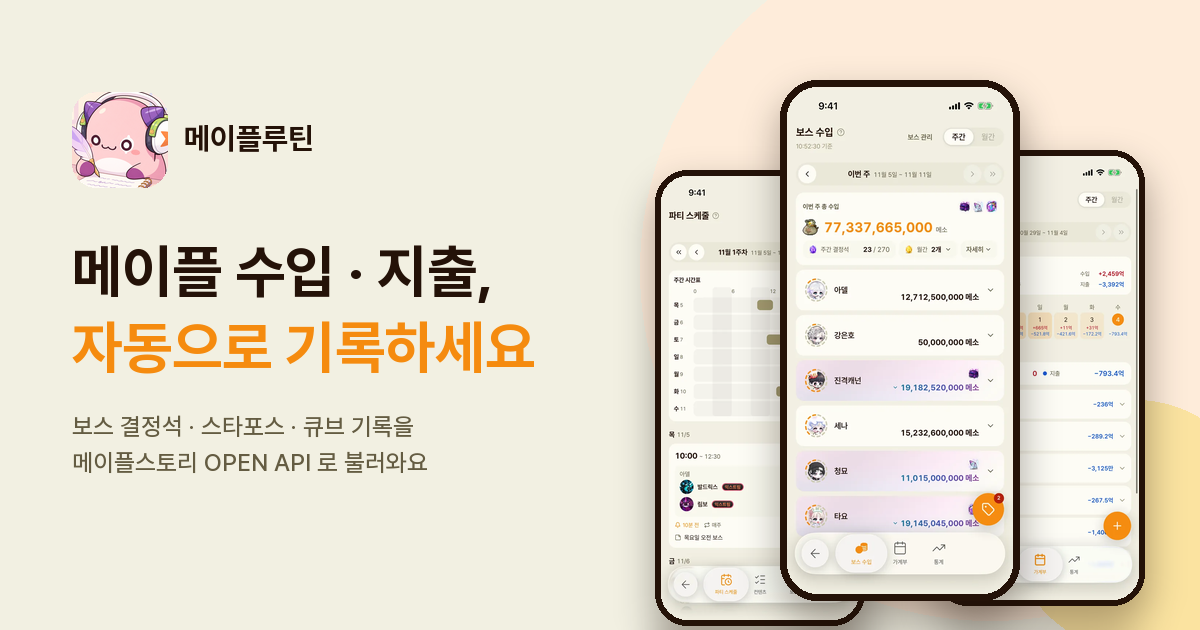
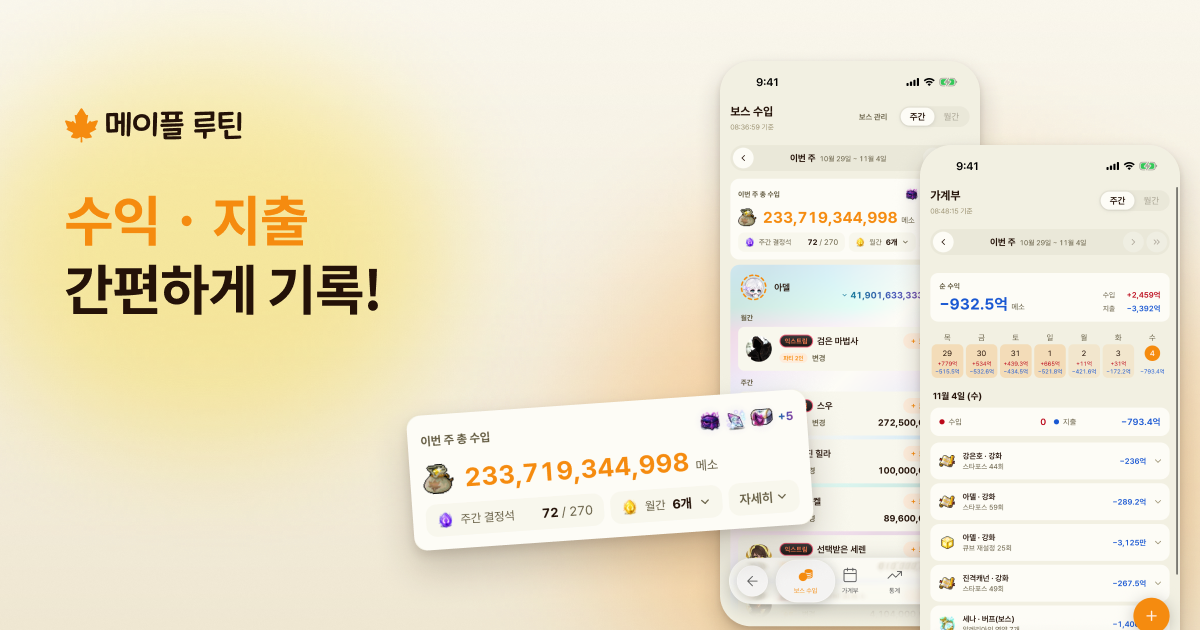
feat(site): 첫 화면과 자동 기록 구역을 화면 3장 콜라주로 바꾸고 폰 틀을 없앤다
- 첫 화면 · 결정석 수입 · 강화 · 파티 스케줄: 화면 3장에 키운 카드를 띄운 콜라주. 구역마다 화면 높낮이와 카드 위치를 조금씩 다르게 했다
- 모든 폰 화면에서 검정 폰 틀을 걷고 콜라주의 화면과 같은 모서리 · 그림자를 쓴다
- 모바일 첫 화면은 글 · 그림 · 스토어 배지 순서로 쌓는다
- 공유 미리보기 og.png 를 돈 묶음(보스 수입 · 가계부)만 담은 그림으로 바꾼다
- 콜라주에 들어가 쓰지 않게 된 화면 6장을 지운다

diff --git a/site/index.html b/site/index.html
@@ -101,20 +101,18 @@
       <span class="pill">메이플스토리 OPEN API 연동</span>
       <h1>메이플 수입 · 지출,<br><span class="accent">자동으로 기록하세요</span></h1>
       <p class="lead">메이플스토리 OPEN API 로 보스 처치와 강화 기록을 불러와 결정석 수입과 강화 지출을 자동으로 기록해요. 파티 인원을 정해 두면 매주 분배 금액도 계산해요.</p>
-      <div class="badges">
-        <a class="badge badge-apple" href="https://apps.apple.com/kr/app/id6797579391">
-          <img class="badge-apple-black" src="/images/home/badges/app-store-ko-black.svg" alt="App Store에서 다운로드" width="182" height="56">
-          <img class="badge-apple-white" src="/images/home/badges/app-store-ko-white.svg" alt="App Store에서 다운로드" width="182" height="56">
-        </a>
-        <a class="badge badge-google" href="https://play.google.com/store/apps/details?id=com.mapleroutine.app">
-          <img src="/images/home/badges/google-play-ko.svg" alt="Google Play에서 다운로드" width="189" height="56">
-        </a>
-      </div>
     </div>
-    <div class="hero-phones">
-      <div class="phone hero-side lift-hero-1"><img src="/images/home/screens/today.webp" alt="메이플 일일 · 주간 초기화까지 남은 시간과 다음 파티 일정을 보여 주는 메이플루틴 today 첫 화면" width="620" height="1348"></div>
-      <div class="phone hero-main"><img src="/images/home/screens/profit.webp" alt="메이플스토리 주간 보스 결정석 수익을 캐릭터별로 합산한 메이플루틴 보스 수입 화면" width="620" height="1348" fetchpriority="high"></div>
-      <div class="phone hero-side lift-hero-2"><img src="/images/home/screens/cash-week.webp" alt="스타포스 강화 · 큐브 재설정 지출이 자동으로 기록된 메이플루틴 메이플 가계부 주간 화면" width="620" height="1348"></div>
+    <div class="hero-media">
+      <img class="hero-collage" src="/images/home/collages/hero.webp" alt="이번 주 보스 결정석 총수입과 수입 내역 그래프를 크게 띄운 메이플루틴 메이플 가계부 · 보스 수입 · 통계 화면" width="1200" height="904" fetchpriority="high">
+    </div>
+    <div class="badges hero-badges">
+      <a class="badge badge-apple" href="https://apps.apple.com/kr/app/id6797579391">
+        <img class="badge-apple-black" src="/images/home/badges/app-store-ko-black.svg" alt="App Store에서 다운로드" width="182" height="56">
+        <img class="badge-apple-white" src="/images/home/badges/app-store-ko-white.svg" alt="App Store에서 다운로드" width="182" height="56">
+      </a>
+      <a class="badge badge-google" href="https://play.google.com/store/apps/details?id=com.mapleroutine.app">
+        <img src="/images/home/badges/google-play-ko.svg" alt="Google Play에서 다운로드" width="189" height="56">
+      </a>
     </div>
   </div>
 </section>
@@ -177,21 +175,14 @@
 </section>
 
 <section id="auto" class="band band-dark">
-  <div class="container stack">
-    <div class="split-head">
-      <div class="section-head">
-        <span class="eyebrow eyebrow-gold">자동 기록 · 결정석 수입</span>
-        <h2>보스 처치만으로<br>쌓이는 결정석 수입</h2>
-      </div>
-      <p class="section-body">인게임 스케줄러에서 처치한 보스를 불러와 결정석 금액을 자동으로 기록해요. 캐릭터별 · 주간 · 월간 수입을 따로 적지 않아도 한눈에 볼 수 있어요.</p>
+  <div class="container feature-row">
+    <div class="feature-copy">
+      <span class="eyebrow eyebrow-gold">자동 기록 · 결정석 수입</span>
+      <h2>보스 처치만으로<br>쌓이는 결정석 수입</h2>
+      <p>인게임 스케줄러에서 처치한 보스를 불러와 결정석 금액을 자동으로 기록해요. 캐릭터별 · 주간 · 월간 수입을 따로 적지 않아도 한눈에 볼 수 있어요.</p>
     </div>
-    <div class="carousel">
-      <div class="rail" id="rail-auto">
-        <div class="phone phone-black" style="--w-d: 250px"><img src="/images/home/screens/boss.webp" alt="메이플스토리 주간 보스와 월간 보스 처치 현황을 캐릭터별로 보여 주는 메이플루틴 보스 스케줄러 화면" width="620" height="1348" loading="lazy"></div>
-        <div class="phone phone-black lift-h" style="--w-d: 250px"><img src="/images/home/screens/profit.webp" alt="메이플스토리 주간 보스 결정석 수익을 캐릭터별로 합산한 메이플루틴 보스 수입 화면" width="620" height="1348" loading="lazy"></div>
-        <div class="phone phone-black" style="--w-d: 250px"><img src="/images/home/screens/profit-detail.webp" alt="메이플 보스 결정석 판매 금액과 보스 드롭 아이템 수익을 나눠 보여 주는 결정석 수익 상세 화면" width="620" height="1348" loading="lazy"></div>
-        <div class="phone phone-black lift-h" style="--w-d: 250px"><img src="/images/home/screens/crystal-day.webp" alt="날짜별로 쌓인 메이플 보스 결정석 수입을 보여 주는 메이플루틴 가계부 월간 달력 화면" width="620" height="1348" loading="lazy"></div>
-      </div>
+    <div class="feature-media feature-media-collage">
+      <img class="collage" src="/images/home/collages/profit.webp" alt="메이플스토리 보스 스케줄러 · 보스 수입 · 날짜별 결정석 수입 화면과 보스별 결정석 금액을 크게 띄운 메이플루틴 결정석 수입 자동 기록 화면" width="1200" height="968" loading="lazy">
     </div>
   </div>
 </section>
@@ -218,14 +209,9 @@
 
 <section class="band band-surface">
   <div class="container feature-row feature-row-reverse">
-    <div class="feature-media">
+    <div class="feature-media feature-media-collage">
       <svg class="blob" aria-hidden="true" viewBox="0 0 600 560"><path d="M280 40c150-20 290 80 300 220 10 150-110 260-260 270-160 10-300-80-310-220C0 170 120 60 280 40z" fill="#E3EAFB"/></svg>
-      <div class="carousel">
-        <div class="rail" id="rail-enhance">
-          <div class="phone" style="--w-d: 250px"><img src="/images/home/screens/cash-week.webp" alt="스타포스 강화 · 큐브 재설정 지출이 자동으로 기록된 메이플루틴 메이플 가계부 주간 화면" width="620" height="1348" loading="lazy"></div>
-          <div class="phone lift-1" style="--w-d: 250px"><img src="/images/home/screens/enhance.webp" alt="메이플스토리 스타포스 강화 횟수와 강화 비용이 지출로 기록된 메이플루틴 강화 기록 화면" width="620" height="1348" loading="lazy"></div>
-        </div>
-      </div>
+      <img class="collage" src="/images/home/collages/enhance.webp" alt="스타포스 강화 · 큐브 재설정 비용이 자동으로 기록된 메이플루틴 메이플 가계부 주간 · 강화 기록 · 하루 기록 화면과 지출 추가 화면" width="1200" height="895" loading="lazy">
     </div>
     <div class="feature-copy">
       <span class="eyebrow eyebrow-blue">자동 기록 · 강화 지출</span>
@@ -242,15 +228,9 @@
       <h2>고정 파티 일정,<br>주간 시간표로 한눈에</h2>
       <p>매주 반복되는 파티와 한 번뿐인 파티를 캐릭터 · 보스별로 등록해요. 요일별 시간표와 보드로 한 주를 보고, 시작 전에는 알림을 받아요. 다음 파티는 today 첫 화면에도 떠요.</p>
     </div>
-    <div class="feature-media">
+    <div class="feature-media feature-media-collage">
       <svg class="blob" aria-hidden="true" viewBox="0 0 700 560"><path d="M120 80C230-10 430 0 560 90c120 80 160 240 60 350-100 110-320 140-460 70C20 440-40 210 120 80z" fill="#FBEFC2"/></svg>
-      <div class="carousel">
-        <div class="rail" id="rail-party">
-          <div class="phone" style="--w-d: 196px"><img src="/images/home/screens/party-week.webp" alt="메이플 보스 고정 파티 일정을 요일별로 보여 주는 메이플루틴 파티 스케줄 주간 시간표 화면" width="620" height="1348" loading="lazy"></div>
-          <div class="phone lift-1" style="--w-d: 196px"><img src="/images/home/screens/party-board.webp" alt="메이플 보스 파티 일정을 날짜별 카드로 보여 주는 메이플루틴 파티 스케줄 보드 화면" width="620" height="1348" loading="lazy"></div>
-          <div class="phone lift-2" style="--w-d: 196px"><img src="/images/home/screens/party-add.webp" alt="매주 반복되는 메이플 보스 파티 일정과 시작 전 알림을 등록하는 메이플루틴 파티 스케줄 추가 화면" width="620" height="1348" loading="lazy"></div>
-        </div>
-      </div>
+      <img class="collage" src="/images/home/collages/party.webp" alt="메이플 보스 고정 파티 목록 · 보드 · 일정 추가 화면과 주간 시간표 · 다음 파티 스케줄을 크게 띄운 메이플루틴 파티 스케줄 화면" width="1200" height="895" loading="lazy">
     </div>
   </div>
 </section>
@@ -345,11 +325,11 @@
     <div class="carousel">
       <div class="rail rail-themes" id="rail-themes">
         <div class="phone phone-theme"><img src="/images/home/screens/theme-mushmom.webp" alt="머쉬맘 테마를 적용한 메이플루틴 화면" width="620" height="1348" loading="lazy"></div>
-        <div class="phone phone-black phone-theme"><img src="/images/home/screens/theme-horntail.webp" alt="혼테일 테마를 적용한 메이플루틴 다크 모드 화면" width="620" height="1348" loading="lazy"></div>
-        <div class="phone phone-black phone-theme"><img src="/images/home/screens/theme-lethe.webp" alt="레테 테마를 적용한 메이플루틴 다크 모드 화면" width="620" height="1348" loading="lazy"></div>
+        <div class="phone phone-theme"><img src="/images/home/screens/theme-horntail.webp" alt="혼테일 테마를 적용한 메이플루틴 다크 모드 화면" width="620" height="1348" loading="lazy"></div>
+        <div class="phone phone-theme"><img src="/images/home/screens/theme-lethe.webp" alt="레테 테마를 적용한 메이플루틴 다크 모드 화면" width="620" height="1348" loading="lazy"></div>
         <div class="phone phone-theme"><img src="/images/home/screens/theme-ren.webp" alt="렌 테마를 적용한 메이플루틴 화면" width="620" height="1348" loading="lazy"></div>
         <div class="phone phone-theme"><img src="/images/home/screens/theme-angelicbuster.webp" alt="엔젤릭버스터 테마를 적용한 메이플루틴 화면" width="620" height="1348" loading="lazy"></div>
-        <div class="phone phone-black phone-theme"><img src="/images/home/screens/theme-blackmage.webp" alt="검은마법사 테마를 적용한 메이플루틴 다크 모드 화면" width="620" height="1348" loading="lazy"></div>
+        <div class="phone phone-theme"><img src="/images/home/screens/theme-blackmage.webp" alt="검은마법사 테마를 적용한 메이플루틴 다크 모드 화면" width="620" height="1348" loading="lazy"></div>
       </div>
     </div>
   </div>

diff --git a/site/home.css b/site/home.css
@@ -50,16 +50,20 @@ figure { margin: 0; }
 /* 첫 화면 */
 .hero { position: relative; overflow: hidden; }
 .hero-blob { position: absolute; right: -120px; top: 20px; width: 860px; height: 760px; }
-.hero-grid { position: relative; display: flex; flex-wrap: wrap; align-items: center; gap: 48px; padding-top: 56px; padding-bottom: 96px; }
-.hero-copy { flex: 1 1 440px; min-width: 0; display: flex; flex-direction: column; gap: 24px; }
+/* 배지를 글과 떼어 둔다. 데스크톱은 글 아래, 모바일은 그림 아래에 놓기 위해서다. 위아래 빈 줄(1fr)이 왼쪽 묶음을 그림 높이의 가운데로 민다. */
+.hero-grid {
+  position: relative; display: grid; column-gap: 48px; padding-top: 56px; padding-bottom: 96px;
+  grid-template-columns: minmax(0, 1fr) minmax(0, 1.15fr);
+  grid-template-rows: 1fr auto auto 1fr;
+  grid-template-areas: ". media" "copy media" "badges media" ". media";
+}
+.hero-copy { grid-area: copy; min-width: 0; display: flex; flex-direction: column; gap: 24px; }
+.hero-badges { grid-area: badges; padding-top: 32px; }
 .pill { align-self: flex-start; background: var(--tint); color: var(--accent-ink); font-size: 14px; font-weight: 700; padding: 8px 14px; border-radius: 999px; }
 .hero h1 { font-size: 56px; line-height: 1.22; font-weight: 800; letter-spacing: -0.02em; }
 .lead { font-size: 18px; line-height: 1.7; color: var(--muted); max-width: 500px; }
-.hero-phones { flex: 1 1 520px; min-width: 0; display: flex; justify-content: center; align-items: flex-start; gap: 22px; }
-.hero-main { --w: 262px; }
-.hero-side { --w: 210px; }
-.lift-hero-1 { margin-top: 90px; }
-.lift-hero-2 { margin-top: 60px; }
+.hero-media { grid-area: media; min-width: 0; align-self: center; }
+.hero-collage { width: 100%; max-width: 640px; margin: 0 auto; }
 
 /* 스토어 배지. 공식 그림을 그대로 쓰고 둘레에 배지 높이의 1/4 이상을 비운다. */
 .badges { display: flex; flex-wrap: wrap; gap: calc(var(--badge-h) / 3); padding-top: 8px; }
@@ -71,18 +75,16 @@ figure { margin: 0; }
 .platform-ios .badge-google { display: none; }
 .platform-android .badge-apple { display: none; }
 
-/* 폰 틀. 모서리 · 테두리는 폭에 비례해서 크기가 달라도 같은 모양이다. */
+/* 폰 틀 없이 둥근 화면과 그림자만 둔다. 콜라주 그림을 만든 Figma `화면` 컴포넌트와 같은 비율(모서리 폭의 12%, 그림자 둘)이라
+   콜라주 속 화면과 폰 줄의 화면이 같은 모양으로 보인다. */
 .phone {
   --w: var(--w-d, 220px);
   flex: 0 0 auto;
   width: var(--w);
-  padding: calc(var(--w) * 0.028);
-  border-radius: calc(var(--w) * 0.16);
-  background: var(--dark);
-  box-shadow: 0 30px 60px -20px rgba(36, 18, 8, .35), 0 12px 24px -12px rgba(36, 18, 8, .25);
+  border-radius: calc(var(--w) * 0.12);
+  box-shadow: 0 calc(var(--w) * 0.012) calc(var(--w) * 0.03) rgba(36, 18, 8, .13), 0 calc(var(--w) * 0.05) calc(var(--w) * 0.11) rgba(36, 18, 8, .208);
 }
-.phone img { width: 100%; border-radius: calc(var(--w) * 0.132); }
-.phone-black { background: #000; }
+.phone img { width: 100%; border-radius: calc(var(--w) * 0.12); }
 
 /* 구역 */
 .band { position: relative; overflow: hidden; padding: 120px 0; }
@@ -98,9 +100,7 @@ figure { margin: 0; }
 .eyebrow-gold { color: var(--gold); }
 .eyebrow-blue { color: var(--blue); }
 .eyebrow-red { color: var(--red); }
-.split-head { display: flex; flex-wrap: wrap; gap: 32px; align-items: flex-end; justify-content: space-between; }
-.split-head .section-head { flex: 1 1 480px; min-width: 0; }
-.section-body { flex: 1 1 400px; min-width: 0; font-size: 17px; line-height: 1.75; color: var(--dark-muted); }
+.band-dark .feature-copy p { color: var(--dark-muted); }
 
 /* 핵심 기능 카드 */
 /* 한 줄에 둘. 넷이면 카드가 좁아져 제목이 두 줄로 꺾인다. */
@@ -128,6 +128,10 @@ figure { margin: 0; }
 .feature-media.wide { flex: none; }
 .blob { position: absolute; inset: 0; width: 100%; height: 100%; }
 .feature-media.wide .blob { top: 40px; height: calc(100% - 40px); }
+/* 화면 셋과 띄운 카드를 한 장에 담은 그림. 뒤에 깔린 .blob(absolute) 위에 오도록 position 을 준다. */
+.collage { position: relative; width: 100%; }
+/* 콜라주 구역은 글 칸을 넓힌다. 글 칸이 408px 이면 제목 `스타포스 · 큐브 비용까지` 가 한 줄에 안 들어가 세 줄이 된다. */
+.feature-media-collage { flex-basis: 440px; }
 
 /* 가로로 넘기는 폰 줄 */
 .carousel { position: relative; }
@@ -186,21 +190,23 @@ figure { margin: 0; }
   .brand img { width: 36px; height: 36px; }
 
   .hero-blob { right: -180px; top: 360px; width: 560px; height: 500px; }
-  .hero-grid { gap: 32px; padding-top: 24px; padding-bottom: 56px; }
-  .hero-copy { flex-basis: 100%; gap: 20px; }
+  /* 모바일은 글 · 그림 · 배지 순서로 쌓는다. 배지가 그림 위에 있으면 그림이 첫 화면 밑으로 밀려 안 보인다. */
+  .hero-grid {
+    row-gap: 28px; padding-top: 24px; padding-bottom: 56px;
+    grid-template-columns: minmax(0, 1fr);
+    grid-template-rows: auto;
+    grid-template-areas: "copy" "media" "badges";
+  }
+  .hero-copy { gap: 20px; }
   .hero h1 { font-size: 34px; line-height: 1.3; }
   .lead { font-size: 16px; }
-  .hero-phones { flex-basis: 100%; gap: 12px; }
-  .hero-main { --w: 170px; }
-  .hero-side { --w: 120px; }
-  .lift-hero-1 { margin-top: 60px; }
-  .lift-hero-2 { margin-top: 40px; }
+  .hero-badges { padding-top: 0; }
 
   .band { padding: 56px 0 24px; }
   .stack { gap: 24px; }
   .section-head.center { align-items: flex-start; text-align: left; }
   .section-head h2, .feature-copy h2, .cta h2 { font-size: 26px; line-height: 1.35; }
-  .section-head p, .feature-copy p, .section-body { font-size: 15px; line-height: 1.7; }
+  .section-head p, .feature-copy p { font-size: 15px; line-height: 1.7; }
   .eyebrow { font-size: 14px; }
   .feature-row, .feature-row-reverse { flex-direction: column; flex-wrap: nowrap; align-items: stretch; gap: 20px; }
   /* 세로로 쌓이면 flex-basis 360px 이 높이가 되어 글 아래가 빈다. */
